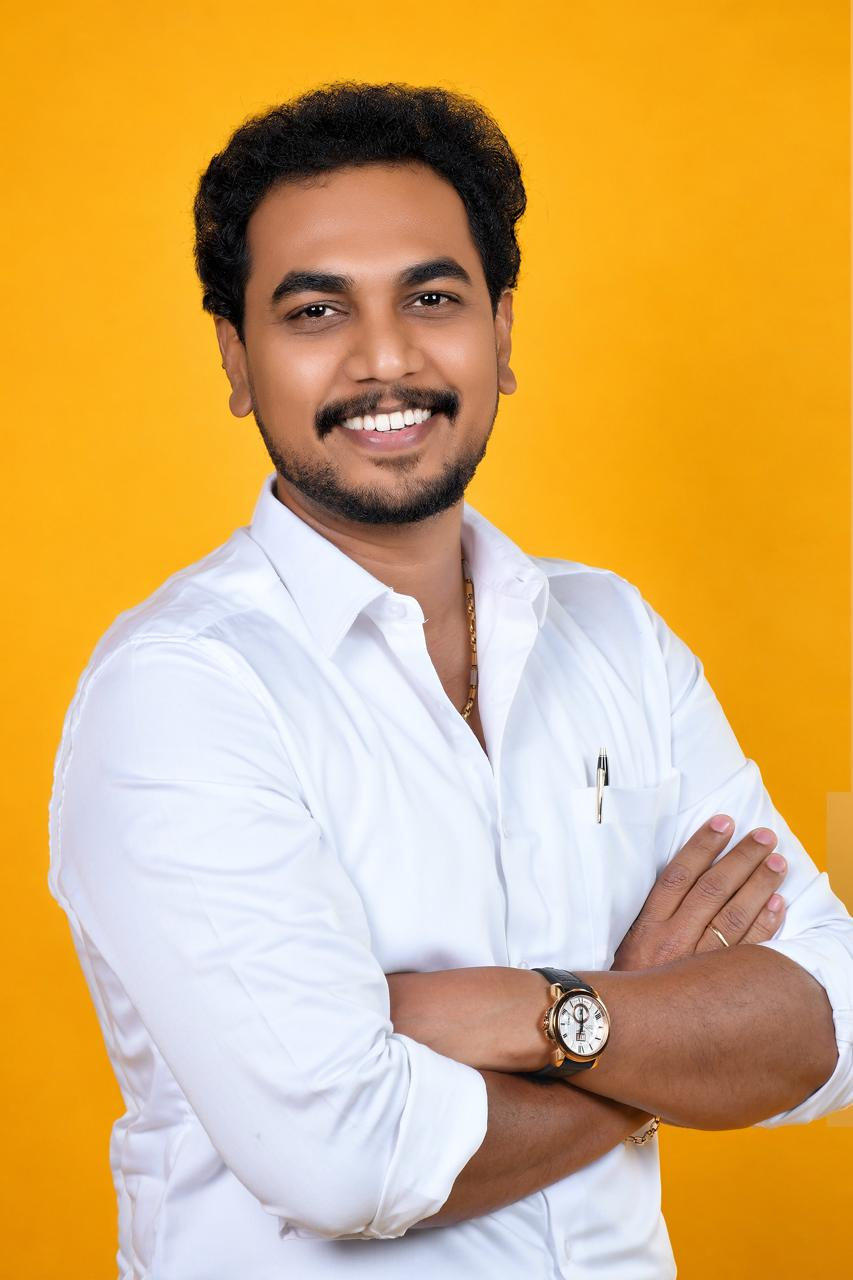
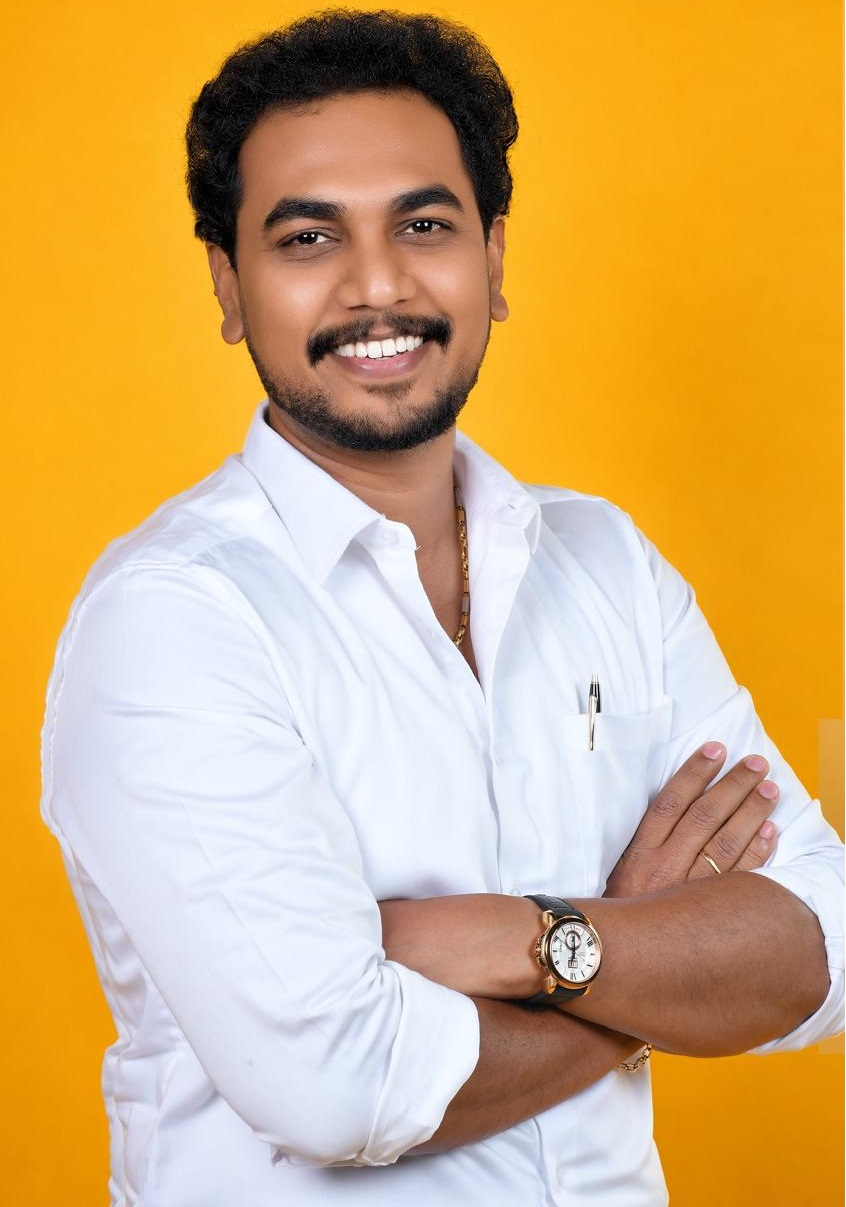
1

diff --git a/FounderandDirector.html b/FounderandDirector.html
@@ -783,7 +783,7 @@
 					<div class="col-lg-4 col-md-6" data-aos="fade-up" data-aos-delay="100">
 						<div class="founder-card">
 							<div class="founder-avatar">
-								<img src="img/samraj-doctor.jfif" alt="Dr. Samraj">
+								<img src="img/drsamrajprofile.jpeg" alt="Dr. Samraj">
 							</div>
 							<h4>Dr. Samraj</h4>
 							<p class="founder-role">Co-Founder & Director</p>
